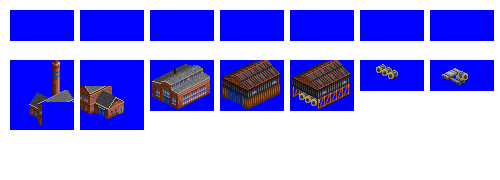
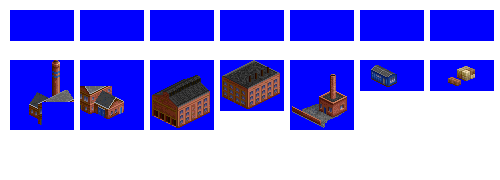
Basic Factory graphics added

Changed region(s): [[0.3, 0.3333, 0.81, 0.7222], [0.87, 0.3611, 0.96, 0.4722]]

diff --git a/src/industries/factory_1.py b/src/industries/factory_1.py
@@ -1,6 +1,6 @@
 from industry import IndustrySecondary, TileLocationChecks
 
-# !! Specialist Component Factory
+# !! Basic Goods Factory
 # !! layout names will need set correctly
 industry = IndustrySecondary(
     id="factory_1",
@@ -54,13 +54,13 @@ spriteset_2 = industry.add_spriteset(
     sprites=[(80, 60, 64, 70, -31, -39)],
 )
 spriteset_3 = industry.add_spriteset(
-    sprites=[(150, 60, 64, 51, -31, -20)],
+    sprites=[(150, 60, 64, 70, -31, -39)],
 )
 spriteset_4 = industry.add_spriteset(
     sprites=[(220, 60, 64, 51, -31, -20)],
 )
 spriteset_5 = industry.add_spriteset(
-    sprites=[(290, 60, 64, 51, -31, -20)],
+    sprites=[(290, 60, 64, 70, -31, -39)],
 )
 spriteset_6 = industry.add_spriteset(
     sprites=[(360, 60, 64, 31, -31, 0)],
@@ -136,7 +136,7 @@ industry.add_industry_layout(
         (0, 4, "factory_1_tile_1", "factory_1_spritelayout_5"),
         (1, 0, "factory_1_tile_1", "factory_1_spritelayout_3"),
         (1, 1, "factory_1_tile_1", "factory_1_spritelayout_3"),
-        (1, 2, "factory_1_tile_1", "factory_1_spritelayout_5"),
+        (1, 2, "factory_1_tile_1", "factory_1_spritelayout_7"),
         (1, 3, "factory_1_tile_1", "factory_1_spritelayout_4"),
         (1, 4, "factory_1_tile_1", "factory_1_spritelayout_6"),
         (2, 0, "factory_1_tile_1", "factory_1_spritelayout_3"),
@@ -162,6 +162,6 @@ industry.add_industry_layout(
         (3, 0, "factory_1_tile_1", "factory_1_spritelayout_4"),
         (3, 1, "factory_1_tile_1", "factory_1_spritelayout_5"),
         (3, 2, "factory_1_tile_1", "factory_1_spritelayout_4"),
-        (3, 3, "factory_1_tile_1", "factory_1_spritelayout_3"),
+        (3, 3, "factory_1_tile_1", "factory_1_spritelayout_7"),
     ],
 )

diff --git a/src/industries/factory_2.py b/src/industries/factory_2.py
@@ -1,6 +1,6 @@
 from industry import IndustrySecondary, TileLocationChecks
 
-# !! Specialist Goods Factory
+# !! Modern Goods Factory
 # !! layout names will need set correctly
 industry = IndustrySecondary(
     id="factory_2",
